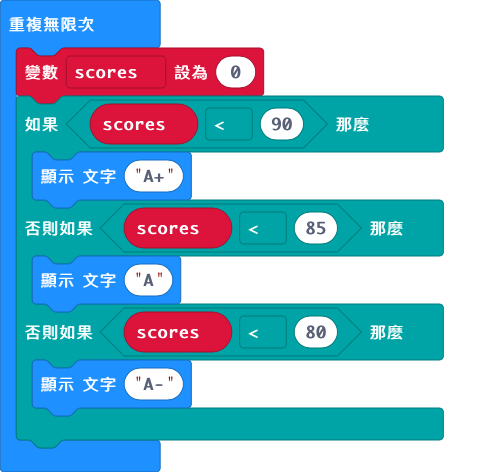
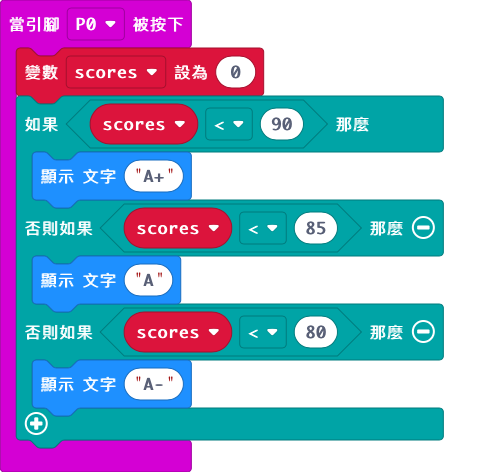
更改

diff --git a/main.ts b/main.ts
@@ -1,5 +1,5 @@
 let scores = 0
-basic.forever(function () {
+input.onPinPressed(TouchPin.P0, function () {
     scores = 0
     if (scores < 90) {
         basic.showString("A+")
